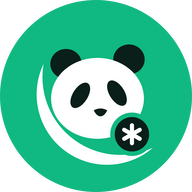
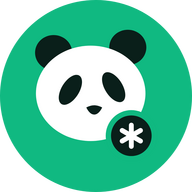
Remove crescent swirl from canonical mark, preserve old hero (#7)
* Remove crescent swirl from canonical logo, preserve hero illustration

* Use distinct asset filenames for swirl-free mark cache busting

---------

Changed region(s): [[0.1562, 0.125, 0.8125, 0.875]]

diff --git a/index.html b/index.html
@@ -18,7 +18,7 @@
     />
     <meta
       property="og:image"
-      content="https://otpanda.github.io/home/assets/brand/social-card.png"
+      content="https://otpanda.github.io/home/assets/brand/social-card-swirlfree2.png"
     />
     <meta property="og:type" content="website" />
     <meta name="theme-color" content="#082c25" />
@@ -26,7 +26,7 @@
     <link rel="icon" href="assets/brand/favicon-otty-t1b.ico" sizes="48x48" />
     <link rel="icon" type="image/png" sizes="16x16" href="assets/brand/otty-favicon-t1b-16.png" />
     <link rel="icon" type="image/png" sizes="32x32" href="assets/brand/otty-favicon-t1b-32.png" />
-    <link rel="apple-touch-icon" href="assets/brand/apple-touch-icon.png" />
+    <link rel="apple-touch-icon" href="assets/brand/apple-touch-icon-swirlfree2.png" />
     <style>
       @font-face {
         font-family: "Figtree";
@@ -939,7 +939,7 @@
         <header class="wrap">
           <div class="nav">
             <a class="brand" href="./" aria-label="OTPanda home"
-              ><img src="assets/brand/otty-tile.svg" alt="" />OTPanda</a
+              ><img src="assets/brand/otty-tile-swirlfree2.svg" alt="" />OTPanda</a
             >
             <nav class="nav-links" aria-label="Main navigation">
               <a href="#features">Why OTPanda</a
@@ -1184,7 +1184,7 @@
     <footer>
       <div class="wrap">
         <a class="brand" href="./"
-          ><img src="assets/brand/otty-tile.svg" alt="" />OTPanda</a
+          ><img src="assets/brand/otty-tile-swirlfree2.svg" alt="" />OTPanda</a
         >
         <p>Less chasing. More getting in.</p>
         <a href="https://github.com/otpanda">GitHub ↗</a>
